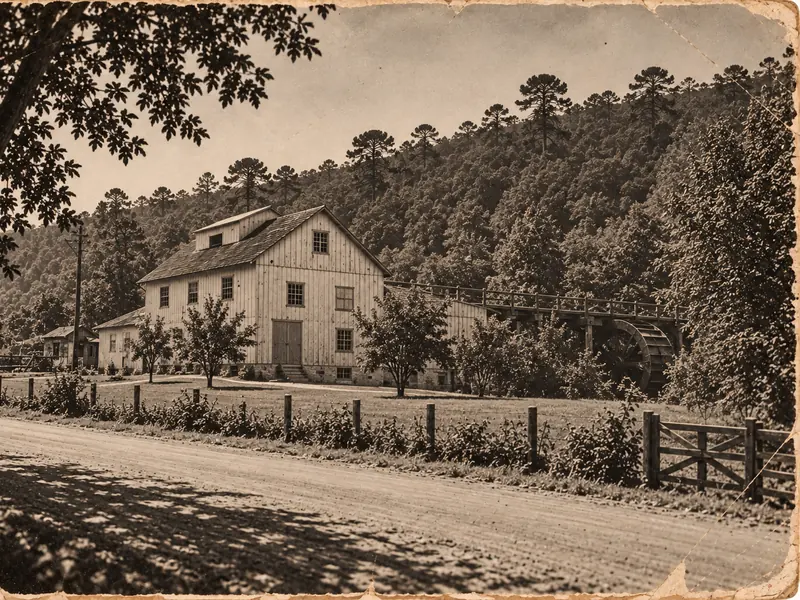
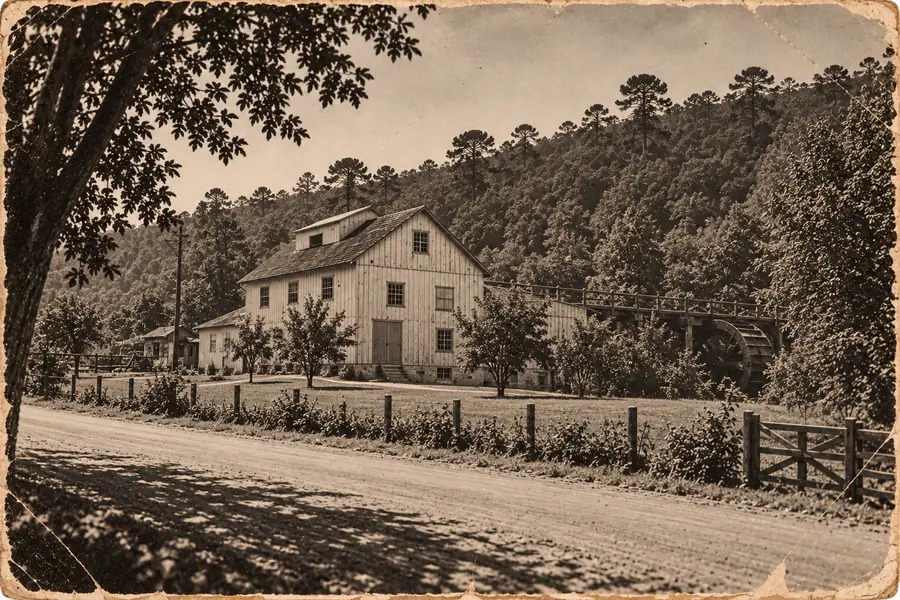
Moinho: espaço segue o formato da foto, sem cortar a moldura
O espaço da foto em "De onde vem o nome" passa de 4:3 para 3:2, o formato
original da imagem, e a foto entra inteira (900×600), com a moldura de
cartão-postal completa nos quatro lados.

Claude-Session: https://claude.ai/code/session_01LrkxJPGKxv4wp4UyECqKJZ

diff --git a/css/site.css b/css/site.css
@@ -305,7 +305,7 @@ em { font-style: italic; }
 .nome { padding-top: clamp(40px, 5vw, 70px); border-top: 1px solid var(--t-linha); }
 .nome__fixa { display: flex; flex-direction: column; gap: 22px; position: sticky; top: 12vh; }
 .foto { margin: 0; display: flex; flex-direction: column; gap: 12px; max-width: 420px; }
-.foto__img { position: relative; width: 100%; aspect-ratio: 4 / 3; overflow: hidden; background: var(--card); }
+.foto__img { position: relative; width: 100%; aspect-ratio: 3 / 2; overflow: hidden; }
 .foto__img img { width: 100%; height: 100%; object-fit: cover; }
 .foto figcaption { font-size: 11px; font-weight: 500; letter-spacing: .22em; text-transform: uppercase; color: var(--t-texto); }
 .rodas .lead { max-width: 40ch; font-size: clamp(20px, 1.6vw, 24px); }

diff --git a/index.html b/index.html
@@ -282,7 +282,7 @@
             <h3 class="h3" data-revela>De onde vem <em>o nome</em></h3>
             <figure class="foto" data-revela>
               <div class="foto__img">
-                <img src="/assets/img/moinho.webp" alt="O moinho do nonno Rico, na Linha Palmeiro, em Farroupilha" width="800" height="600" loading="lazy" decoding="async">
+                <img src="/assets/img/moinho.webp" alt="O moinho do nonno Rico, na Linha Palmeiro, em Farroupilha" width="900" height="600" loading="lazy" decoding="async">
               </div>
               <figcaption>Linha Palmeiro · Farroupilha</figcaption>
             </figure>
